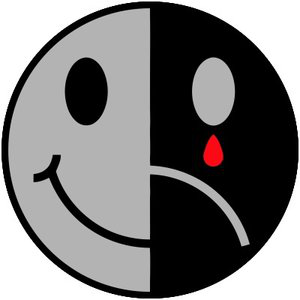
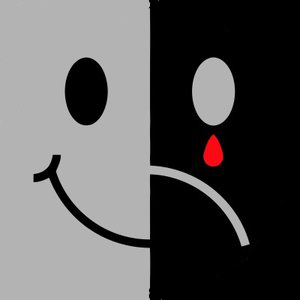
Update
1) Fixed same smiley for both sides bug
2) Changed the shape of smiley

Changed region(s): [[0.0, 0.0, 1.0, 1.0]]

diff --git a/Pig Game/app.js b/Pig Game/app.js
@@ -51,7 +51,7 @@ document.querySelector(".btn-roll").addEventListener("click", function(){
             document.querySelector(".btn-roll").style.display = "none";
             document.querySelector(".btn-hold").style.display = "none";
 
-            if(document.querySelector("#name-0") === "Winner!") {
+            if(document.querySelector("#name-0").textContent === "Winner!") {
                 document.querySelector(".dice").src = "left-smile.png";
             } else {
                 document.querySelector(".dice").src = "right-smile.png";
